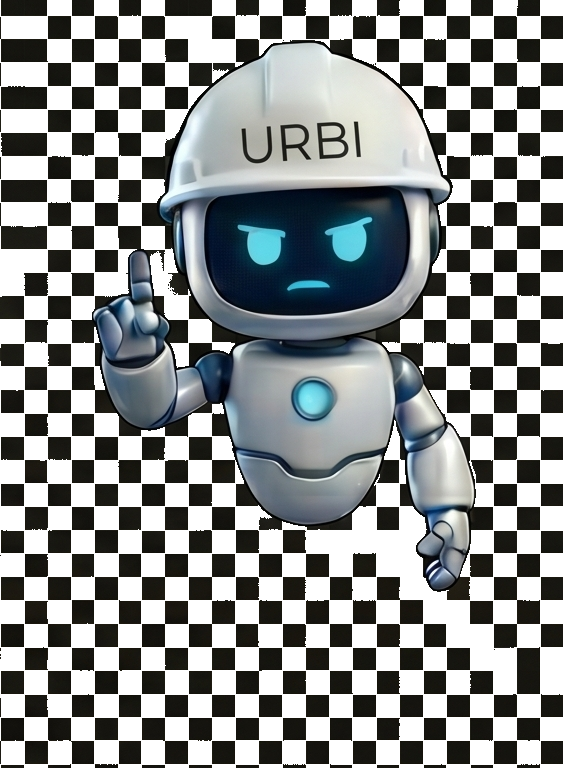
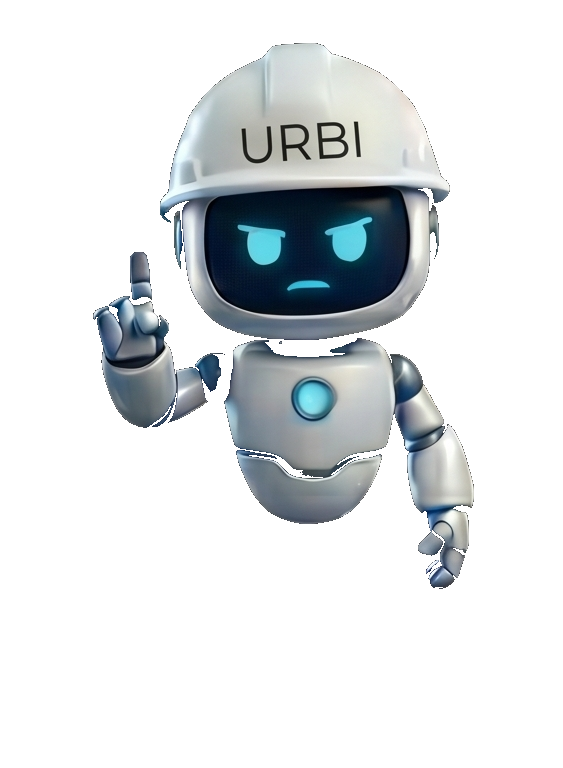
fix: video sem blend mode + bg removal agressivo

diff --git a/components/urbi/UrbiChat.tsx b/components/urbi/UrbiChat.tsx
@@ -143,11 +143,11 @@ export default function UrbiChat({ usuario, aberto: abertoProp, setAberto }: Pro
             top: "50%",
             left: "50%",
             transform: "translate(-50%, -50%)",
-            width: "min(560px, 65vw)",
+            width: "min(640px, 70vw)",
             height: "auto",
-            mixBlendMode: "screen",
             zIndex: 960,
             pointerEvents: "none",
+            borderRadius: 12,
           }}
         />
       )}
